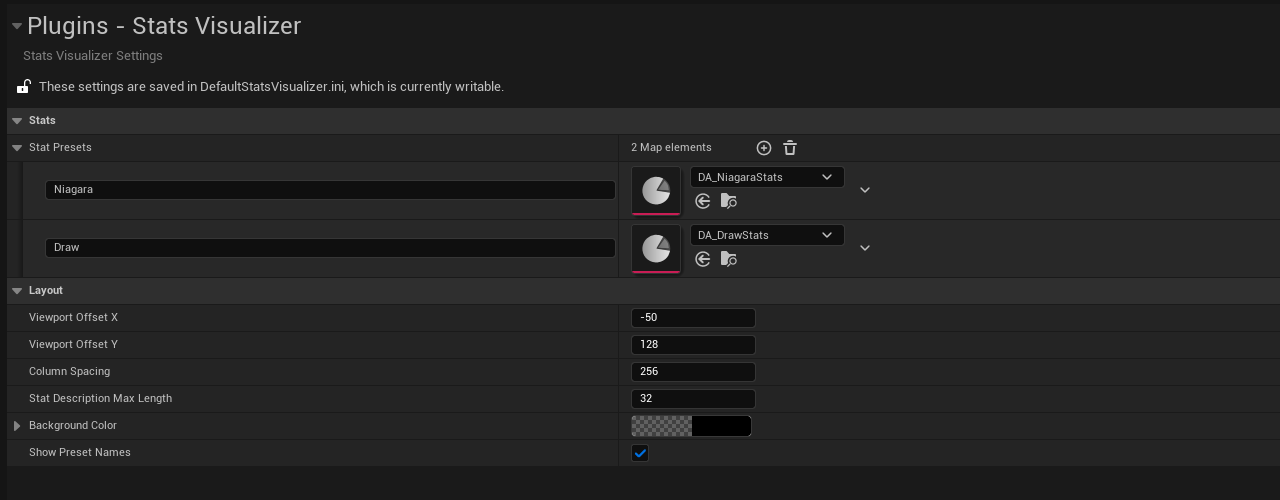
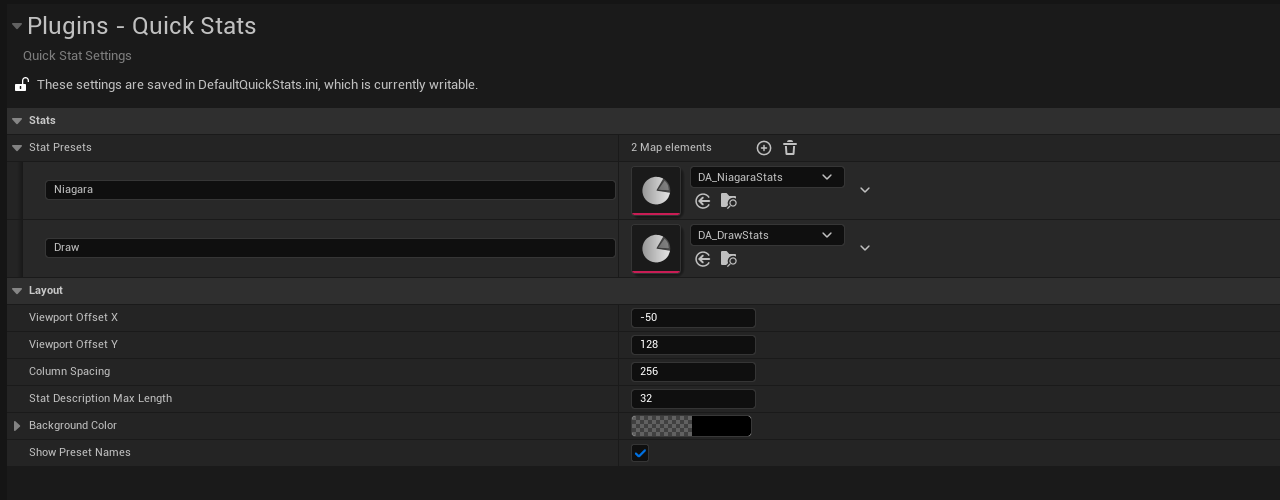
Missed 2 files from rename changelist.

Changed region(s): [[0.0, 0.15, 0.4062, 0.18], [0.0938, 0.03, 0.25, 0.09], [0.0, 0.09, 0.125, 0.12]]

diff --git a/Source/QuickStats/Private/QuickStatsRenderer.cpp b/Source/QuickStats/Private/QuickStatsRenderer.cpp
@@ -131,7 +131,7 @@ void FQuickStatsRenderer::RegisterStatPresets()
 				}
 				else if (PresetName != NAME_None) //None can be used to disable all preset.
 				{
-					UE_LOG(LogTemp, Warning, TEXT("Preset(%s) is not defined in StatVisualizerSettings!"), *PresetName.ToString());
+					UE_LOG(LogTemp, Warning, TEXT("Preset(%s) is not defined in QuickStatSettings!"), *PresetName.ToString());
 				}
 			}
 		);
